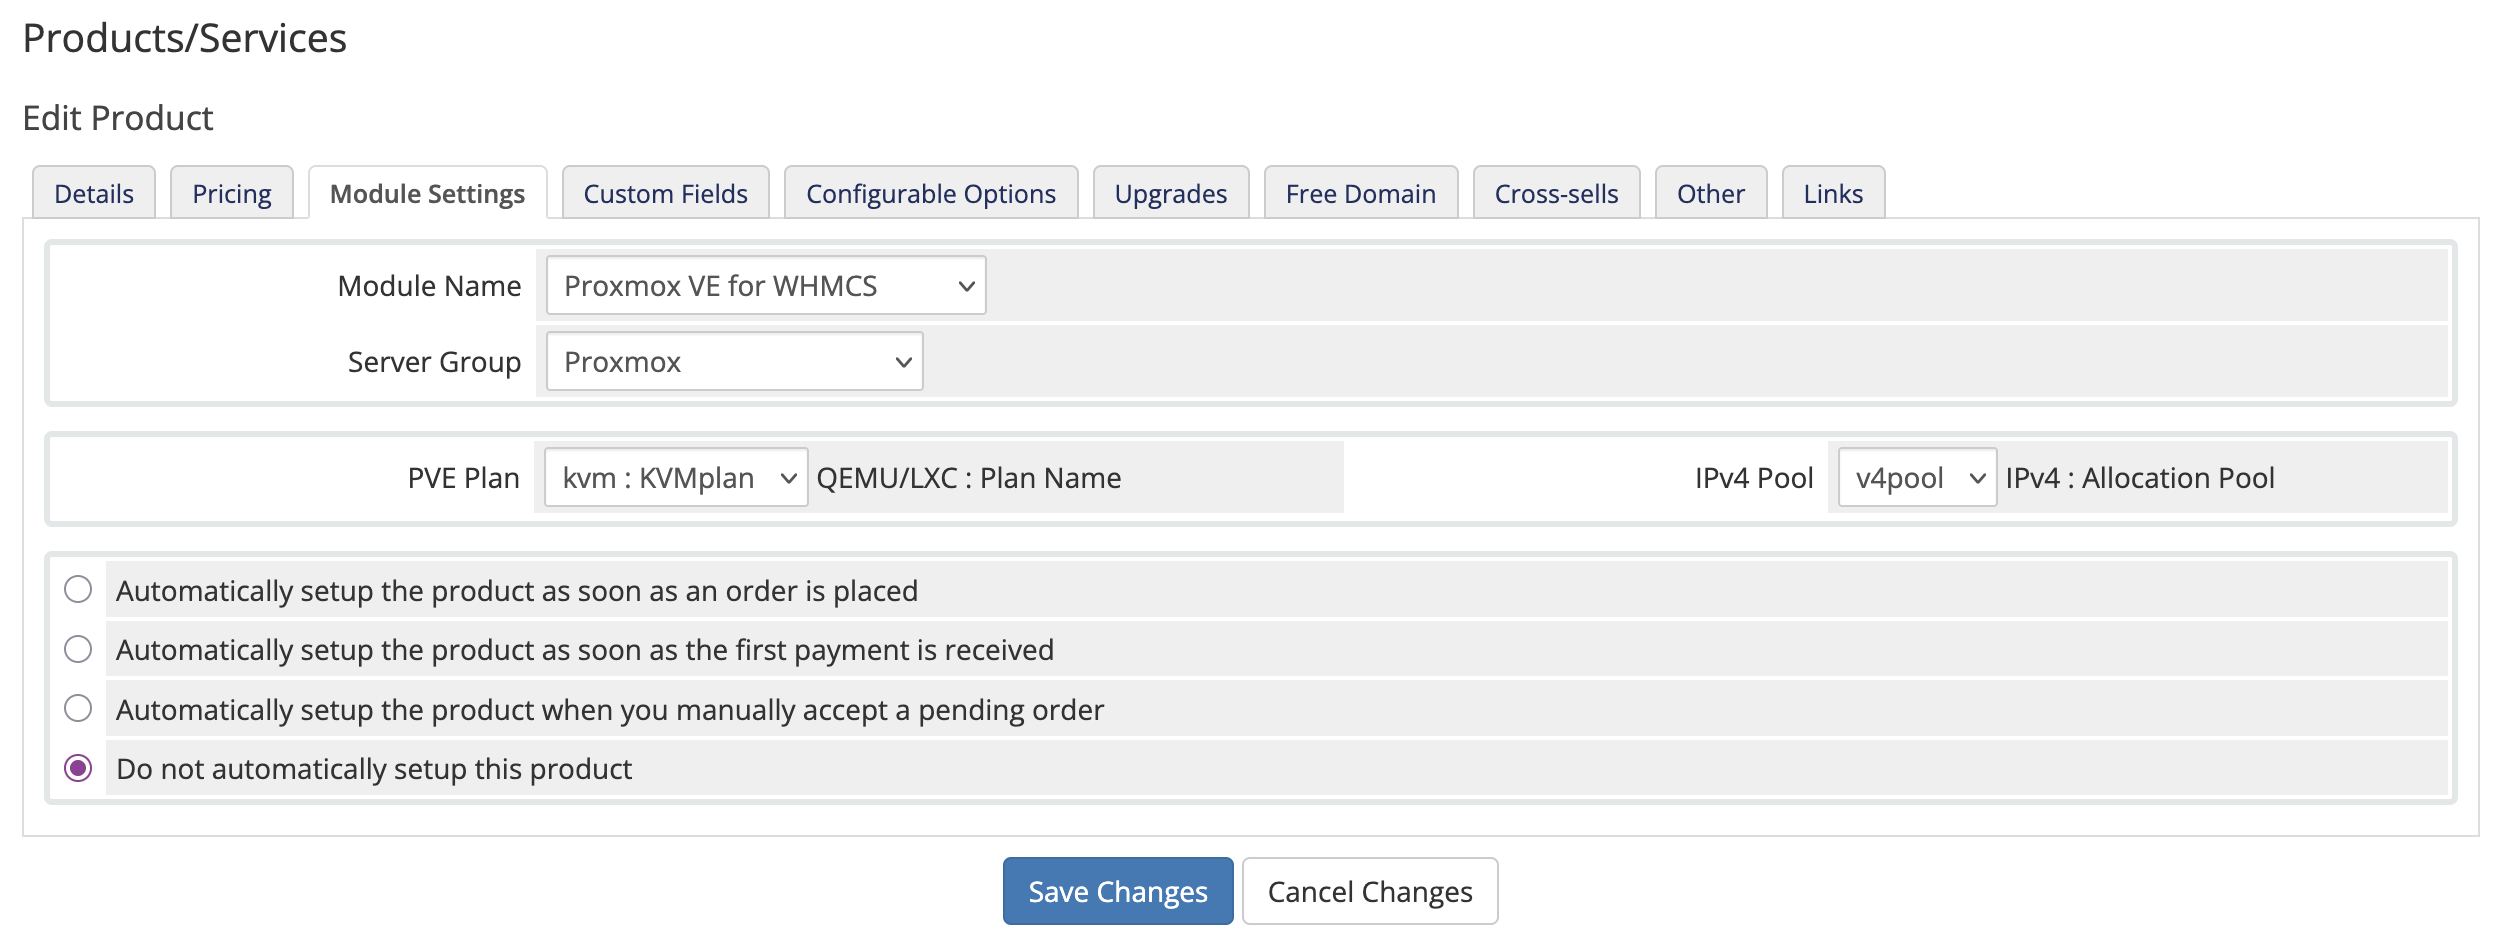
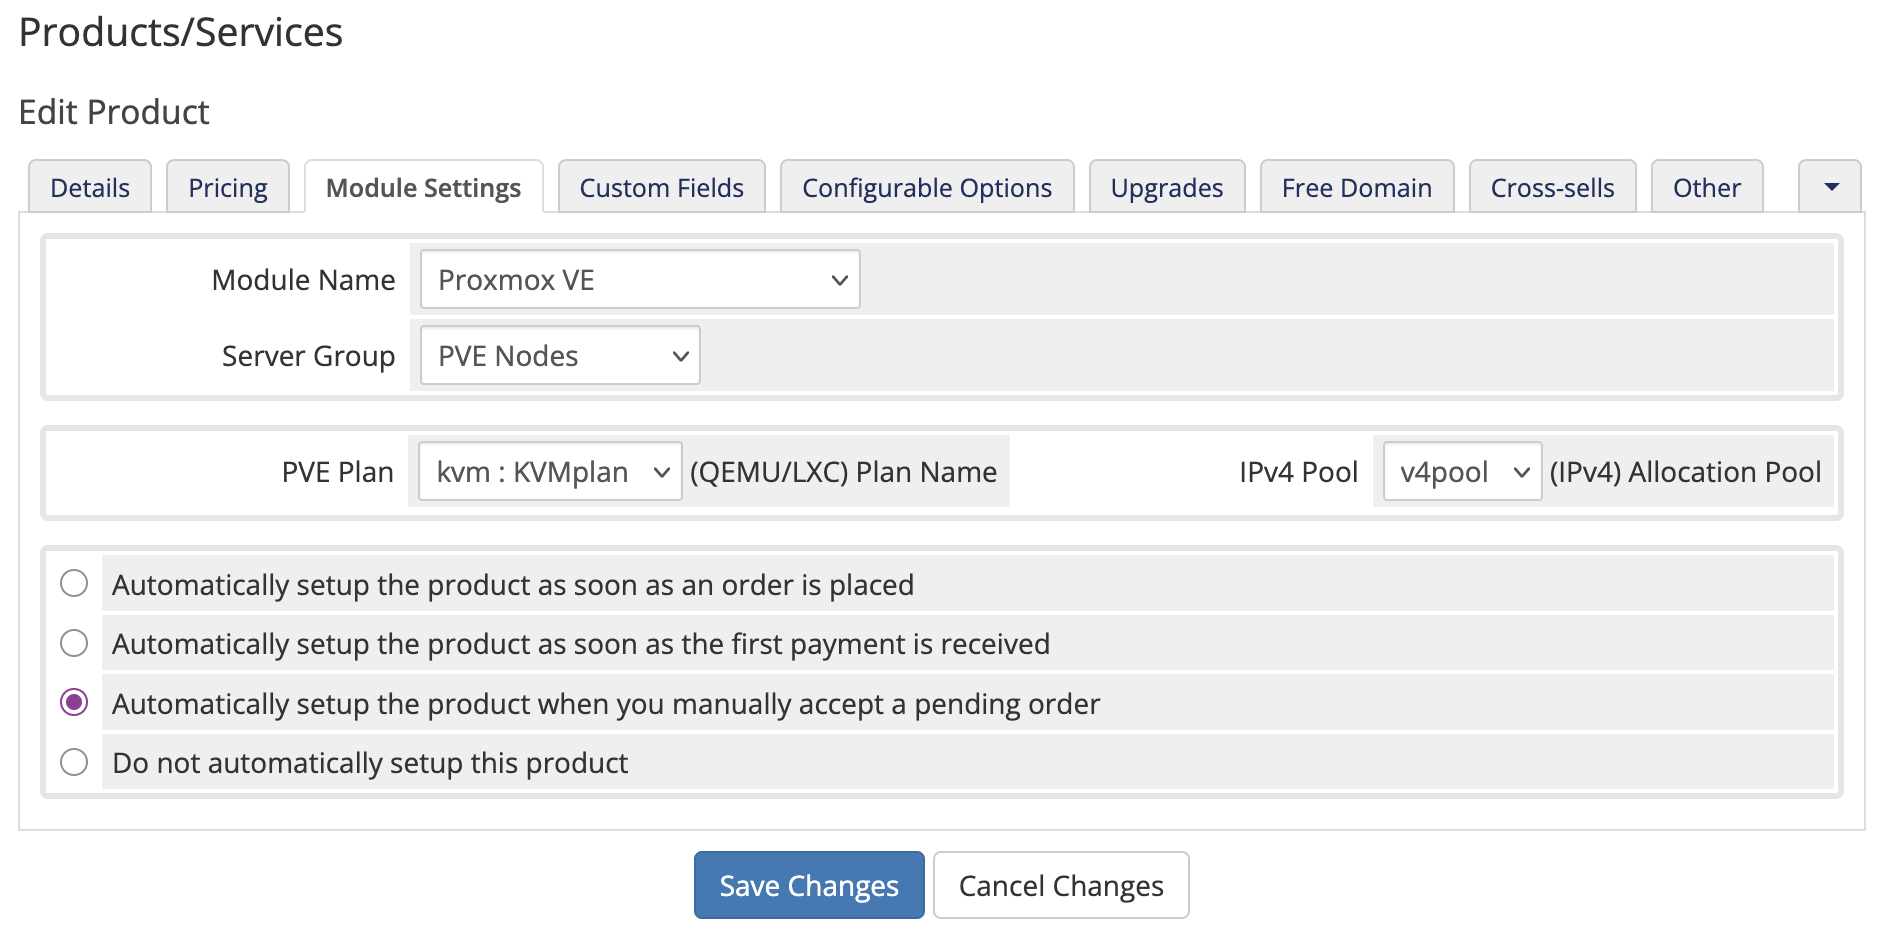
Final module pretty name update

diff --git a/modules/servers/pvewhmcs/pvewhmcs.php b/modules/servers/pvewhmcs/pvewhmcs.php
@@ -103,13 +103,13 @@ function pvewhmcs_ConfigOptions() {
 			"FriendlyName" => "PVE Plan",
 			"Type" => "dropdown",
 			'Options' => $plans ,
-			"Description" => "QEMU/LXC : Plan Name"
+			"Description" => "(QEMU/LXC) Plan Name"
 		),
 		"IPPool" => array(
 			"FriendlyName" => "IPv4 Pool",
 			"Type" => "dropdown",
 			'Options'=> $ippools,
-			"Description" => "IPv4 : Allocation Pool"
+			"Description" => "(IPv4) Allocation Pool"
 		),
 	);
 

diff --git a/README.md b/README.md
@@ -164,18 +164,20 @@ Please make sure you create an IPv4 Pool with sufficient scope/size to be able t
 
 #### Private IPs for PVE Hosts
 
-Note that VNC may be problematic without work due to the strict requirements introduced in Proxmox v8.0 (strict same-site attribute). Just as SSL/TLS Certificates are no longer trusted for Public IP Addresses, there is increasing work to make the web secure-by-default which makes VNC/etc safer. Hence, we will not support any set-ups which do not follow the set-up processes 100%.
+Note that VNC may be problematic without work due to the strict requirements introduced in Proxmox v8.0 (strict same-site attribute). Just as SSL/TLS Certificates are no longer trusted for Public IP Addresses, there is increasing work to make the web secure-by-default which makes VNC/etc safer. 
+
+> Hence, we will not support any set-ups which do not follow all of the set-up processes 100%.
 
 #### Existing Guest Imports from PVE
 
 Take note that during the Guest Import process, there is no association ensured to an IP Pool, rather we take your inputs and use them verbatim due to existing/current nature of the Guest's configuration.
 
-### IPv6: SLAAC default, via 2nd vNIC
+### IPv6: SLAAC default (via 2nd vNIC)
 
 Available options: 
-- **SLAAC** (2nd vNIC)
-- **DHCP** (2nd vNIC)
-- **Off** (v4-only)
+1. **SLAAC** (2nd vNIC)
+2. **DHCP** (2nd vNIC)
+3. **Off** (v4-only)
 
 You may add different config via PVE/`pvesh` manually of course, if you need to specify a prefix etc.
 
@@ -228,7 +230,7 @@ You can associate an existing PVE Guest through the WHMCS Module too, like this:
 
 ### Custom Fields: Important Notes (ZFS/CTs)
 
-#### ZFS etc: Comfigure to suit isolated TPLs
+#### ZFS etc: Configure to suit isolated TPLs
 
 - `local` is the name of the file-system that you have the Template on
 - `vztmpl` is the directoty name per convention, with the ISO within
